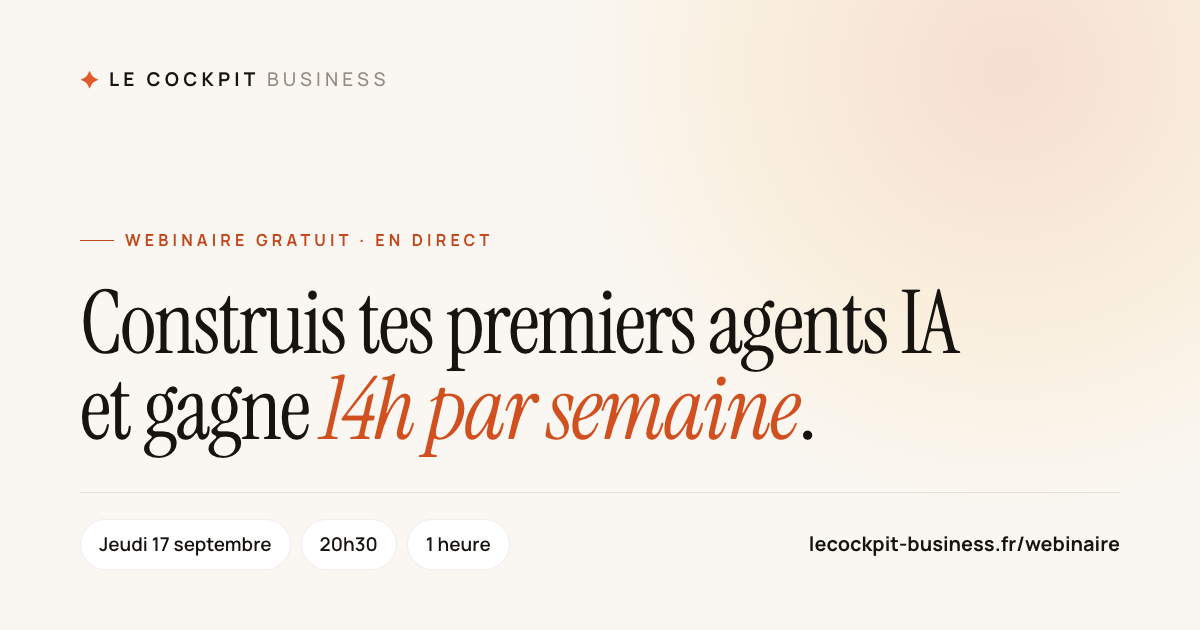
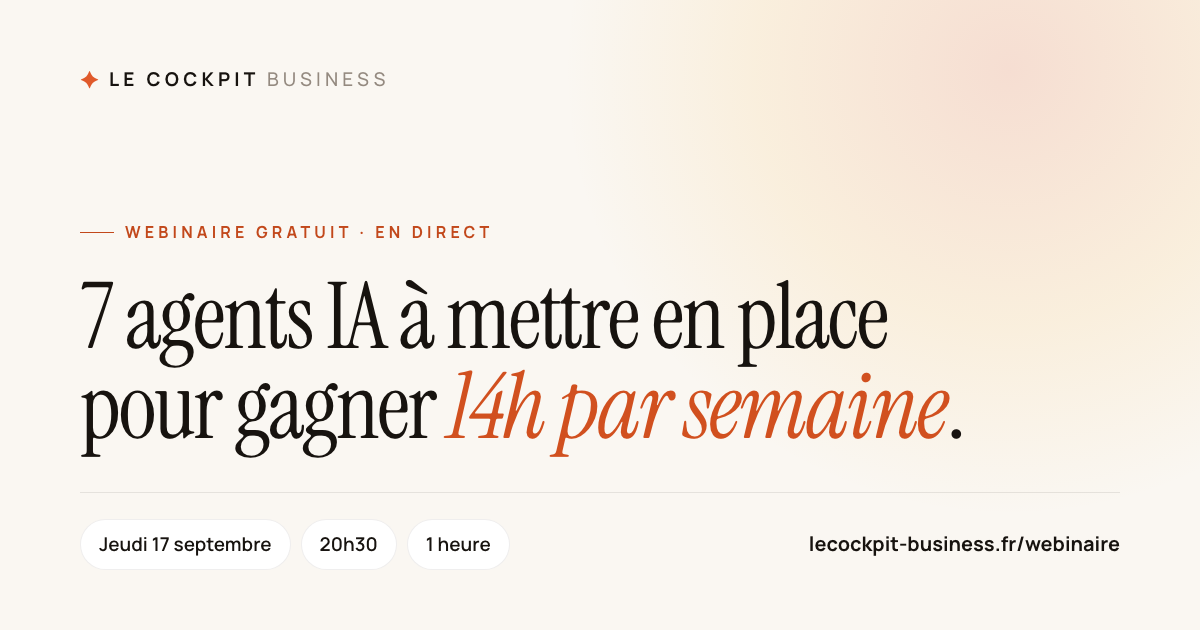
Webinaire : nouvelle promesse, les 7 agents
Titre « 7 agents IA à mettre en place pour gagner 14h par semaine » et
sous-titre sur les mails, l'agenda, le site et LinkedIn en automatique.
Texte fourni au vouvoiement, passé au tutoiement comme le reste du site.

Le rappel de bas de page parlait encore de « ton premier agent » : il
annonce désormais les 7. Balises de partage et carte og:image régénérées.

Changed region(s): [[0.0617, 0.4222, 0.8017, 0.7238], [0.0925, 0.3619, 0.4008, 0.3921]]

diff --git a/site/webinaire.html b/site/webinaire.html
@@ -3,8 +3,8 @@
 <head>
 <meta charset="utf-8">
 <meta name="viewport" content="width=device-width, initial-scale=1">
-<title>Construis tes premiers agents IA — Webinaire gratuit · Le Cockpit Business</title>
-<meta name="description" content="Webinaire gratuit en direct, jeudi 17 septembre à 20h30 : construis tes premiers agents IA et gagne 14h par semaine, sans développeur et sans une ligne de code.">
+<title>7 agents IA pour gagner 14h par semaine — Webinaire gratuit · Le Cockpit Business</title>
+<meta name="description" content="Webinaire gratuit en direct : les 7 agents IA à mettre en place pour gagner 14h par semaine. Même en débutant, gère tes mails, ton agenda, ton site et tes posts LinkedIn en automatique.">
 <link rel="canonical" href="https://lecockpit-business.fr/webinaire">
 <link rel="icon" href="assets/favicon/favicon.ico" sizes="32x32">
 <link rel="icon" href="assets/favicon/favicon.svg" type="image/svg+xml">
@@ -15,14 +15,14 @@
 <meta property="og:type" content="website">
 <meta property="og:locale" content="fr_FR">
 <meta property="og:site_name" content="Le Cockpit Business">
-<meta property="og:title" content="Construis tes premiers agents IA — et gagne 14h par semaine">
-<meta property="og:description" content="Webinaire gratuit en direct, jeudi 17 septembre à 20h30. Une heure pour comprendre ce qu'est vraiment un agent IA, sans développeur et sans code.">
+<meta property="og:title" content="7 agents IA à mettre en place pour gagner 14h par semaine">
+<meta property="og:description" content="Webinaire gratuit en direct. Même en débutant : tes mails, ton agenda, ton site web et tes posts LinkedIn gérés en automatique.">
 <meta property="og:url" content="https://lecockpit-business.fr/webinaire">
 <meta name="twitter:card" content="summary_large_image">
 <meta property="og:image" content="https://lecockpit-business.fr/assets/og/webinaire.png">
 <meta property="og:image:width" content="1200">
 <meta property="og:image:height" content="630">
-<meta property="og:image:alt" content="Webinaire gratuit — Construis tes premiers agents IA et gagne 14h par semaine. Jeudi 17 septembre, 20h30.">
+<meta property="og:image:alt" content="Webinaire gratuit — 7 agents IA à mettre en place pour gagner 14h par semaine.">
 <meta name="twitter:image" content="https://lecockpit-business.fr/assets/og/webinaire.png">
 
 <link rel="preconnect" href="https://fonts.googleapis.com">
@@ -186,9 +186,9 @@
     <div class="optin__copy">
       <p class="eyebrow">Webinaire gratuit · en direct</p>
 
-      <h1 class="h1">Construis tes premiers agents IA et gagne <span class="italique">14h par semaine</span>.</h1>
+      <h1 class="h1">7 agents IA à mettre en place pour gagner <span class="italique">14h par semaine</span>.</h1>
 
-      <p class="optin__sub">Sans développeur, sans une ligne de code. Une heure en direct pour comprendre ce qu'est vraiment un agent IA — et repartir avec le tien en tête.</p>
+      <p class="optin__sub">Même si tu débutes, tu vas gérer tes mails, ton agenda, ton site web, tes posts LinkedIn… en automatique.</p>
 
       <!-- La session. À mettre à jour à chaque live. -->
       <ul class="optin__meta" aria-label="La session">
@@ -424,7 +424,7 @@
      ====================================================================== -->
 <section class="section final optin__rappel">
   <div class="shell livefinal reveal">
-    <h2 class="h2">Une heure pour construire ton <span class="italique">premier agent IA</span>.</h2>
+    <h2 class="h2">Une heure pour repartir avec tes <span class="italique">7 agents IA</span>.</h2>
     <a class="btn btn--primary" href="#inscription">
       <span>Réserver ma place</span>
       <svg width="16" height="16" viewBox="0 0 24 24" fill="none" stroke="currentColor" stroke-width="2.4" stroke-linecap="round" stroke-linejoin="round" aria-hidden="true"><path d="M5 12h14"/><path d="m13 6 6 6-6 6"/></svg>

diff --git a/og/webinaire.html b/og/webinaire.html
@@ -8,7 +8,7 @@
   <span class="brand"><span class="brand__mark">✦</span><span class="brand__name">Le Cockpit <span>Business</span></span></span>
   <div class="carte__corps">
     <p class="eyebrow">Webinaire gratuit · en direct</p>
-    <h1 class="carte__titre" style="font-size:88px">Construis tes premiers agents IA<br>et gagne <span class="italique">14h par semaine</span>.</h1>
+    <h1 class="carte__titre" style="font-size:92px">7 agents IA à mettre en place<br>pour gagner <span class="italique">14h par semaine</span>.</h1>
   </div>
   <div class="carte__pied">
     <div class="pastilles"><span>Jeudi 17 septembre</span><span>20h30</span><span>1 heure</span></div>
